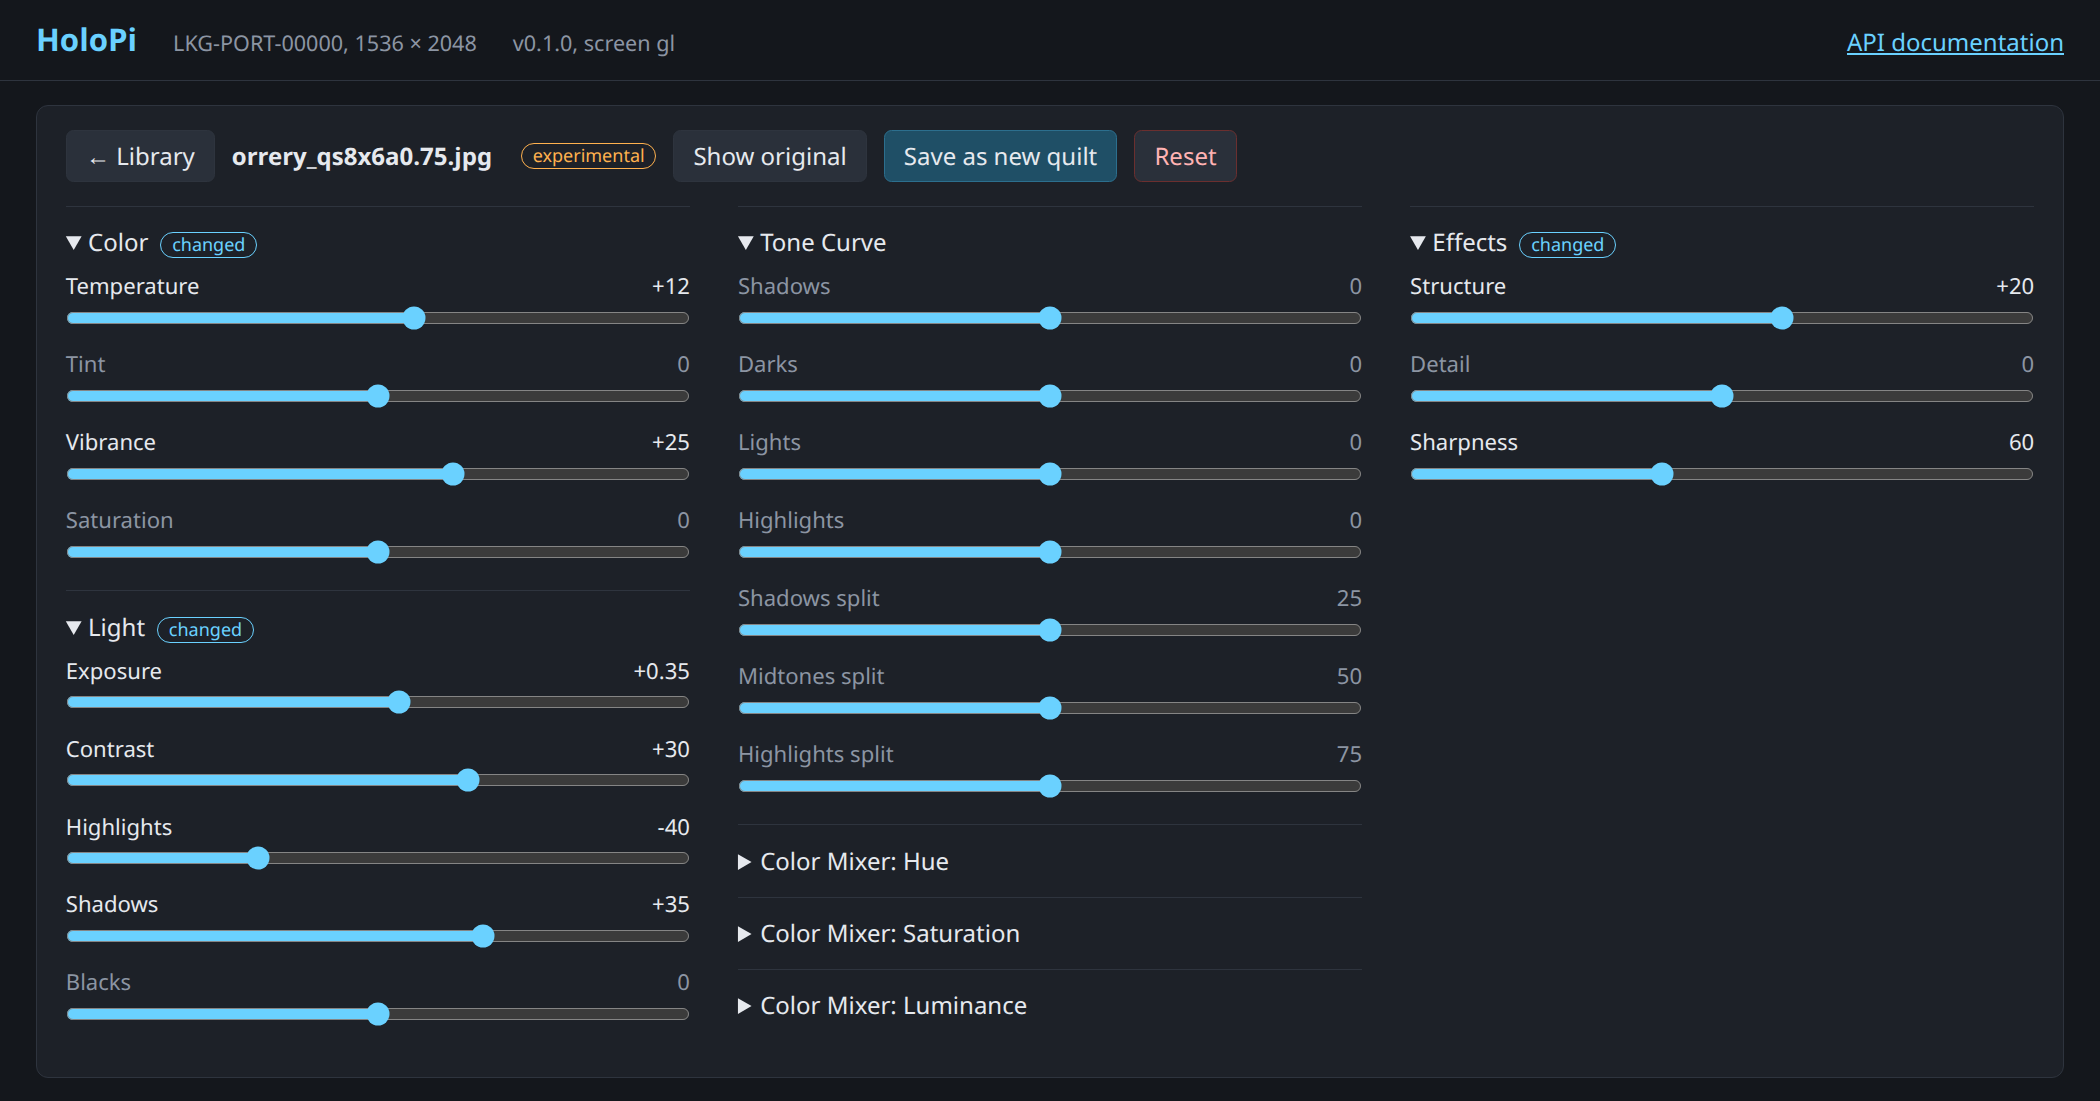
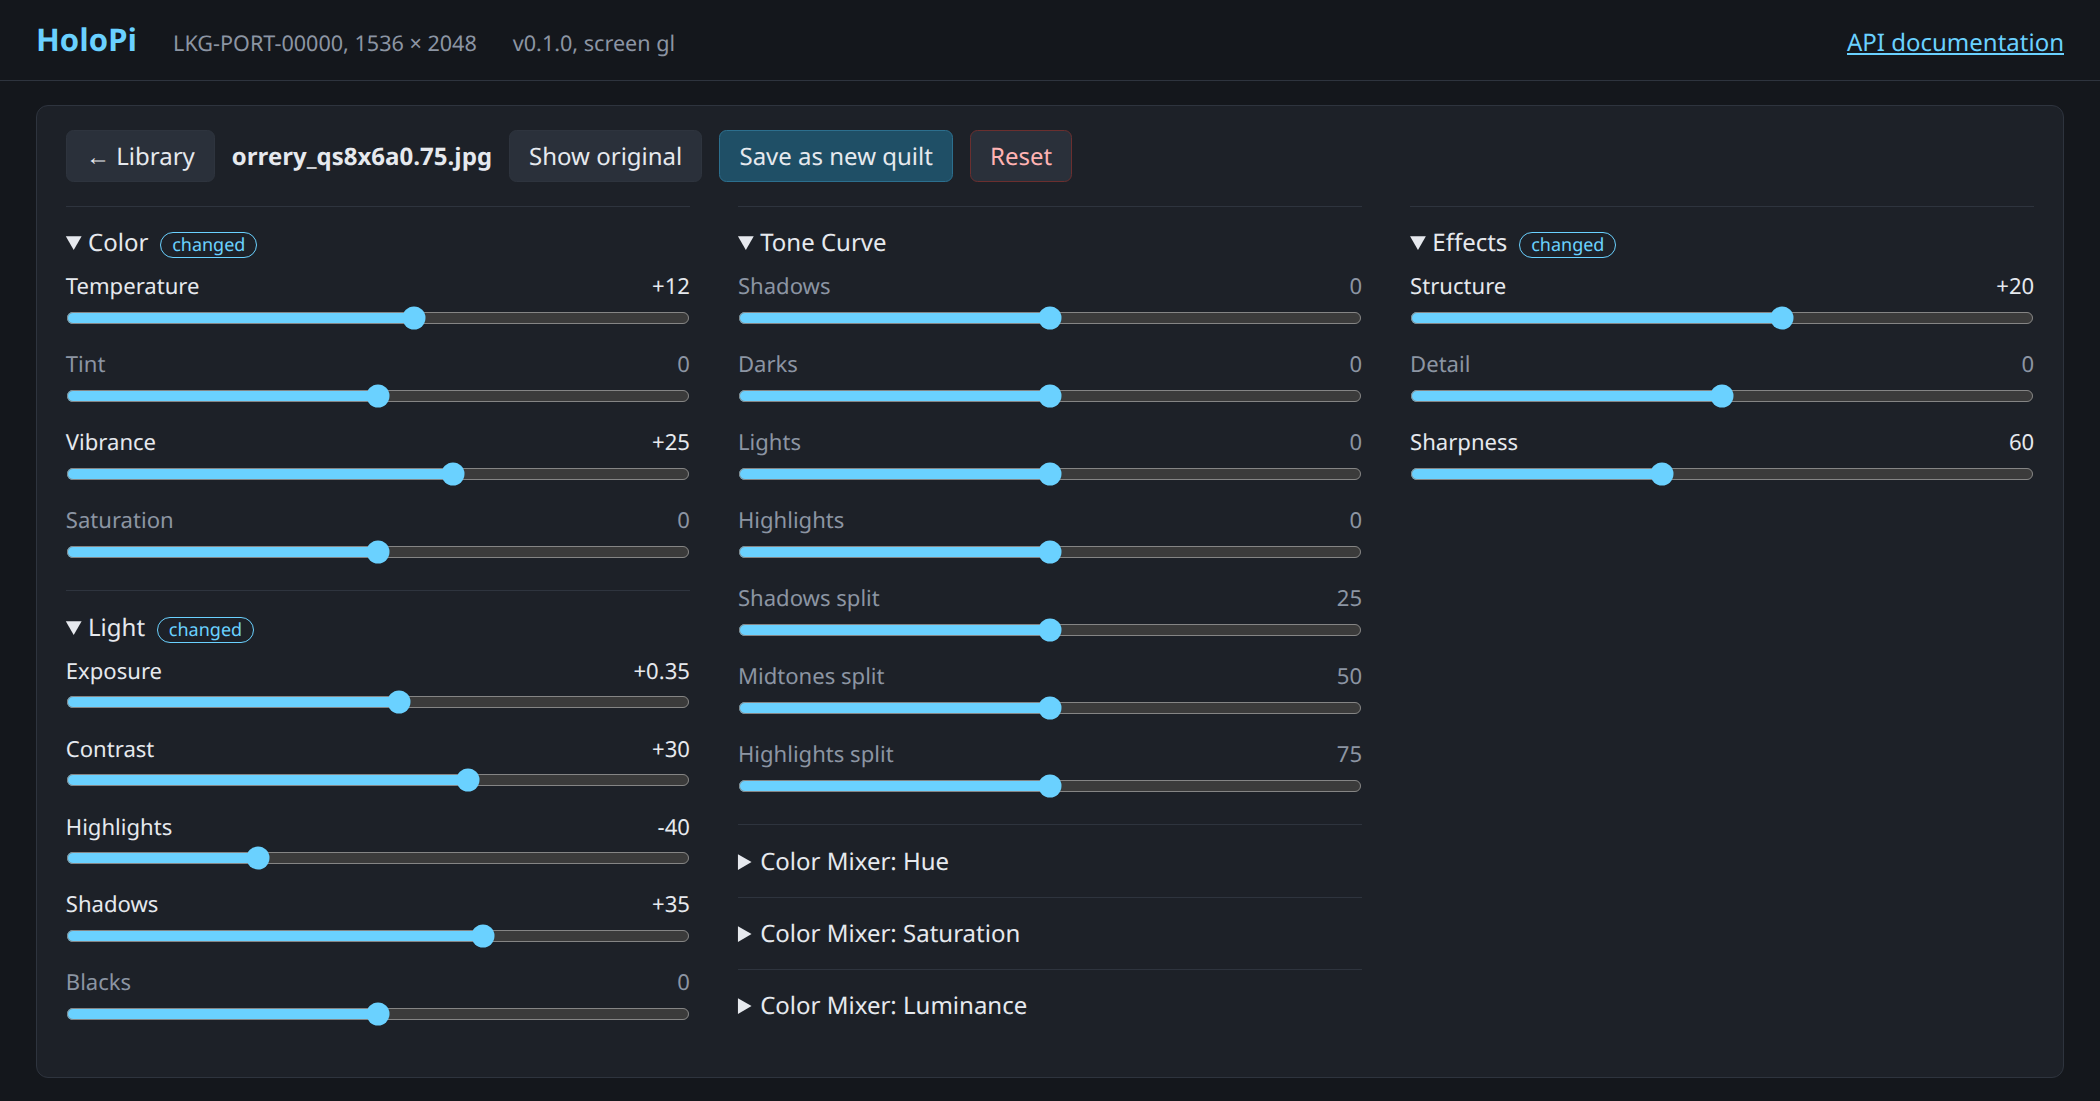
Grading is no longer experimental

Changed region(s): [[0.2476, 0.0926, 0.5881, 0.1853]]

diff --git a/web/src/features/GradePage.tsx b/web/src/features/GradePage.tsx
@@ -1,4 +1,4 @@
-// The grading page of a quilt: its tools, each change of which the Looking Glass shows at once. Experimental.
+// The grading page of a quilt: its tools, each change of which the Looking Glass shows at once.
 import { ConfirmButton } from '../components/ConfirmButton';
 import { ErrorMessage } from '../components/ErrorMessage';
 import { ToolSection } from '../components/ToolSection';
@@ -18,7 +18,6 @@ export function GradePage({ id }: { id: string }) {
         <p className="totals">
           <a className="button" href={formatRoute({ page: 'library' })}>← Library</a>
           <strong>{grade.name}</strong>
-          <span className="badge warning">experimental</span>
           <button disabled={!grade.changed} aria-pressed={grade.showsOriginal} onClick={grade.toggleOriginal}>
             {grade.showsOriginal ? 'Show graded' : 'Show original'}
           </button>

diff --git a/holo_pi/server.py b/holo_pi/server.py
@@ -599,7 +599,7 @@ server on a network you trust. **Try it out** changes what the Looking Glass sho
 TAGS = [
     {"name": "media", "description": "The library: the quilts and videos kept on the server's disk. Upload, list, "
                                      "download and remove them."},
-    {"name": "grades", "description": "Experimental. How a quilt's light and colours are changed when it is shown: "
+    {"name": "grades", "description": "How a quilt's light and colours are changed when it is shown: "
                                       "kept beside the quilt, whose file stays as uploaded."},
     {"name": "display", "description": "What the Looking Glass shows: a medium of the library, the test pattern, "
                                        "or black."},

diff --git a/holo_pi/grade.py b/holo_pi/grade.py
@@ -1,4 +1,4 @@
-"""The grade of a quilt: how its light and its colours are changed when it is shown. Experimental.
+"""The grade of a quilt: how its light and its colours are changed when it is shown.
 
 The tools, their ranges and their math are StepIt Grader's, a desktop program that grades photographs: PARAMETERS is
 the table of them, which the API and the web page read, so that a tool is added here and in the shader, gl_grade.py,

diff --git a/holo_pi/gl_grade.py b/holo_pi/gl_grade.py
@@ -1,4 +1,4 @@
-"""A quilt shown with a grade, on the GPU, fast enough to follow a slider on a Raspberry Pi. Experimental.
+"""A quilt shown with a grade, on the GPU, fast enough to follow a slider on a Raspberry Pi.
 
 A slider moves only a few numbers, so what does not depend on them is done once per picture, and kept:
 

diff --git a/docs/ARCHITECTURE.md b/docs/ARCHITECTURE.md
@@ -67,7 +67,7 @@ What HoloPi uses of the system:
 | [`holo_pi/x11.py`](../holo_pi/x11.py) | Full-screen on a given monitor under X11, through libX11 and ctypes. |
 | [`holo_pi/drm.py`](../holo_pi/drm.py) | The screen without a desktop: DRM/KMS, through libdrm and ctypes. |
 | [`holo_pi/gl.py`](../holo_pi/gl.py) | The screen without a desktop, drawn by the GPU: the interleaving as an OpenGL ES shader, through GBM, EGL and ctypes. |
-| [`holo_pi/grade.py`](../holo_pi/grade.py) | A quilt's grade, experimental: its parameters, its values, and the numbers the GPU needs of them. |
+| [`holo_pi/grade.py`](../holo_pi/grade.py) | A quilt's grade: its parameters, its values, and the numbers the GPU needs of them. |
 | [`holo_pi/gl_grade.py`](../holo_pi/gl_grade.py) | A quilt drawn with a grade by the GPU. |
 | [`holo_pi/video.py`](../holo_pi/video.py) | Videos: reading one, with PyAV, and the `Player`, which decodes one, with the hardware decoder when there is one, and plays it on a screen in a loop. |
 | [`holo_pi/library.py`](../holo_pi/library.py) | The library: the media kept on disk, what each is, and its unique name and id. |
@@ -176,7 +176,7 @@ Three details are easy to break. The shader and `table()` must stay the same for
 
 ### The Grades
 
-Experimental. A grade changes a quilt's light and colours as it is shown, with the tools of StepIt Grader, our desktop program that grades photographs. [`grade.py`](../holo_pi/grade.py) has the table of the parameters, `PARAMETERS`, which the API and the web page read, and the matrices and curves the shaders need of a `Grade`; it knows no OpenGL. `GradedQuilt`, in [`gl_grade.py`](../holo_pi/gl_grade.py), draws one picture with one grade after another, through the `Renderer`'s context.
+A grade changes a quilt's light and colours as it is shown, with the tools of StepIt Grader, our desktop program that grades photographs. [`grade.py`](../holo_pi/grade.py) has the table of the parameters, `PARAMETERS`, which the API and the web page read, and the matrices and curves the shaders need of a `Grade`; it knows no OpenGL. `GradedQuilt`, in [`gl_grade.py`](../holo_pi/gl_grade.py), draws one picture with one grade after another, through the `Renderer`'s context.
 
 To follow a slider, it does only once per picture what does not depend on the grade:
 

diff --git a/web/README.md b/web/README.md
@@ -1,6 +1,6 @@
 # HoloPi's Web Page
 
-A page to try HoloPi without knowing its API: what the Looking Glass shows, a page to grade the quilt shown, experimental, the library of media kept on the Raspberry Pi, to show with a click on a row or the arrow keys, to put in order by dragging a row by its grip or with Alt and the arrow keys, to rename, download or remove, and uploads, one file or many, dropped on it or chosen. It uses the API only, as any client, and links its documentation, on `/api/docs`. The server serves it on `/`, e.g. http://holo.local:8095.
+A page to try HoloPi without knowing its API: what the Looking Glass shows, a page to grade the quilt shown, the library of media kept on the Raspberry Pi, to show with a click on a row or the arrow keys, to put in order by dragging a row by its grip or with Alt and the arrow keys, to rename, download or remove, and uploads, one file or many, dropped on it or chosen. It uses the API only, as any client, and links its documentation, on `/api/docs`. The server serves it on `/`, e.g. http://holo.local:8095.
 
 React, TypeScript and Vite, built with pnpm, as the web pages of the StepIt projects. How it is laid out, and why, is in [The Web Page](../docs/ARCHITECTURE.md#the-web-page) of the architecture document.
 

diff --git a/docs/pr/README.md b/docs/pr/README.md
@@ -15,7 +15,7 @@ Each pull request has a notes file here. It keeps what the pull request does not
 | [13-upload-shows-first.md](13-upload-shows-first.md) | [#13](https://github.com/kineticsystem/holo-pi/pull/13) Uploads always show the first file; no reverse box |
 | [14-web-page-screenshot.md](14-web-page-screenshot.md) | [#14](https://github.com/kineticsystem/holo-pi/pull/14) README: the web page's screenshot as it is now |
 | [15-reorder-media.md](15-reorder-media.md) | [#15](https://github.com/kineticsystem/holo-pi/pull/15) Order the library by dragging a row |
-| [16-quilt-grading.md](16-quilt-grading.md) | [#16](https://github.com/kineticsystem/holo-pi/pull/16) Grade a quilt while the Looking Glass shows it, experimental, and rename a medium |
+| [16-quilt-grading.md](16-quilt-grading.md) | [#16](https://github.com/kineticsystem/holo-pi/pull/16) Grade a quilt while the Looking Glass shows it, and rename a medium |
 
 ## How to Write One
 

diff --git a/docs/API.md b/docs/API.md
@@ -223,7 +223,7 @@ Empties the library, its files too, and answers `204`. If the Looking Glass show
 
 ## The Grades
 
-Experimental. A grade is how a quilt's light and colours are changed when it is shown: exposure, contrast, saturation, sharpness, and so on, the tools of StepIt Grader. It is kept beside the quilt, in the library's index, and the quilt's file stays as uploaded. Only quilts can be graded, not videos, and only a screen drawn by the GPU, `--screen gl`, the container's, shows grades.
+A grade is how a quilt's light and colours are changed when it is shown: exposure, contrast, saturation, sharpness, and so on, the tools of StepIt Grader. It is kept beside the quilt, in the library's index, and the quilt's file stays as uploaded. Only quilts can be graded, not videos, and only a screen drawn by the GPU, `--screen gl`, the container's, shows grades.
 
 ### Grade a Quilt
 

diff --git a/README.md b/README.md
@@ -202,9 +202,6 @@ print(response.json()["id"])
 
 ### Grade a Quilt
 
-> [!WARNING]
-> Grading is experimental.
-
 Grading changes a quilt's light and colours while the Portrait shows it. Show a quilt of the library, then click **Grade…**, below what the Looking Glass shows. The grading page opens, and the Portrait follows each slider as it moves:
 
 <p align="center"><img src="docs/images/grading-page.png" alt="HoloPi's grading page, for the orrery quilt: buttons to go back to the library, show the original, save as a new quilt and reset; below, the sliders in sections, Color, Light, Tone Curve, the folded Color Mixer, and Effects, with temperature, vibrance, exposure, contrast, highlights, shadows, structure and sharpness changed." width="700"></p>

diff --git a/docs/pr/16-quilt-grading.md b/docs/pr/16-quilt-grading.md
@@ -1,6 +1,6 @@
 # Grade a Quilt on the Looking Glass, and Rename a Medium
 
-Pull request [#16](https://github.com/kineticsystem/holo-pi/pull/16), branch `quilt-grading`. The grading is experimental.
+Pull request [#16](https://github.com/kineticsystem/holo-pi/pull/16), branch `quilt-grading`.
 
 ## Goal
 
